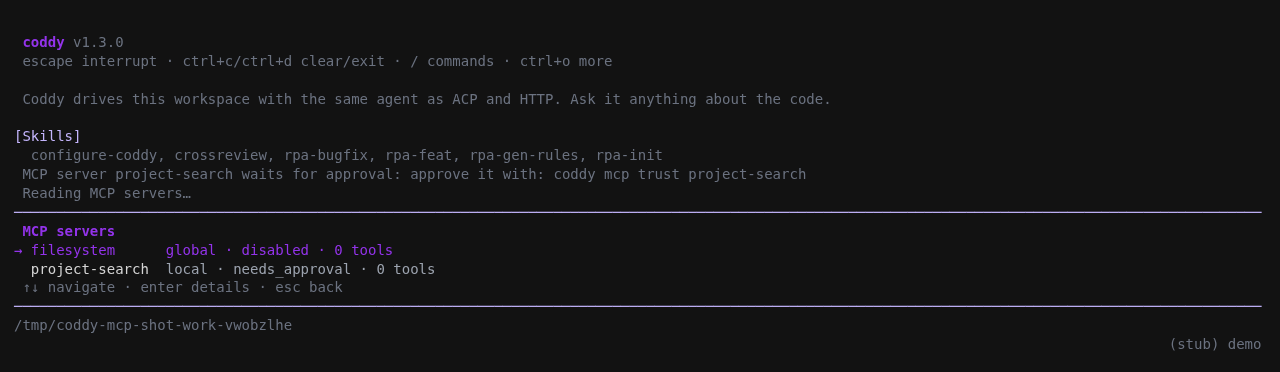
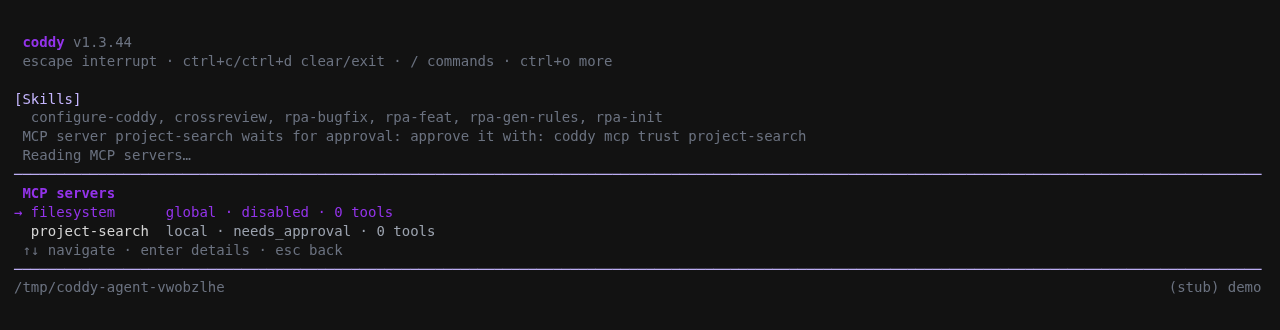
docs: retake the /mcp and the remote queue console shots
Neither has a capture script; both are taken again on a stand-in model with
the header and footer of this build: /mcp with a disabled global server and
an untrusted project server, and a remote console with two follow-ups
queued for a turn another client started.

Changed region(s): [[0.0, 0.2424, 1.0, 0.9091], [0.0, 0.0909, 0.5, 0.2121], [0.9062, 0.9091, 1.0, 0.9394]]

diff --git a/docs/assets/INDEX.md b/docs/assets/INDEX.md
@@ -230,7 +230,7 @@ Generated by `make docs`. "Used by" lists the files that reference the asset.
 
 | File | Size | Used by |
 |------|------|---------|
-| `mcp-console-dark-1280.png` | 36 KB | docs/ru/surfaces/console.md, docs/surfaces/console.md |
+| `mcp-console-dark-1280.png` | 41 KB | docs/ru/surfaces/console.md, docs/surfaces/console.md |
 | `mcp-load-error-dark-1280.png` | 116 KB | docs/features/mcp.md, docs/ru/features/mcp.md |
 | `mcp-mutation-error-dark-1280.png` | 146 KB | docs/features/mcp.md, docs/ru/features/mcp.md |
 | `mcp-settings-dark-1280.png` | 145 KB | docs/features/mcp.md, docs/ru/features/mcp.md |
@@ -264,7 +264,7 @@ Generated by `make docs`. "Used by" lists the files that reference the asset.
 | `message-queue-modes-dark-390.png` | 90 KB | docs/features/message-queue.md, docs/ru/features/message-queue.md |
 | `message-queue-settings-dark-1280.png` | 133 KB | docs/features/message-queue.md, docs/ru/features/message-queue.md |
 | `stop-queue-cancel-failed-dark-1280.png` | 195 KB | docs/ru/surfaces/web-ui.md, docs/surfaces/web-ui.md |
-| `stop-queue-remote-tui-dark-1280.png` | 30 KB | docs/ru/surfaces/console.md, docs/surfaces/console.md |
+| `stop-queue-remote-tui-dark-1280.png` | 34 KB | docs/ru/surfaces/console.md, docs/surfaces/console.md |
 
 ### docs/assets/monitoring
 
